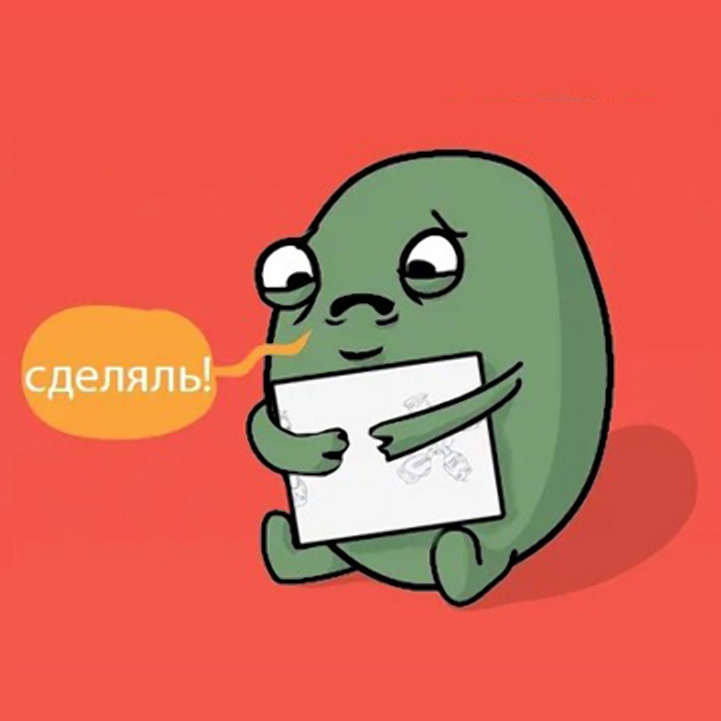
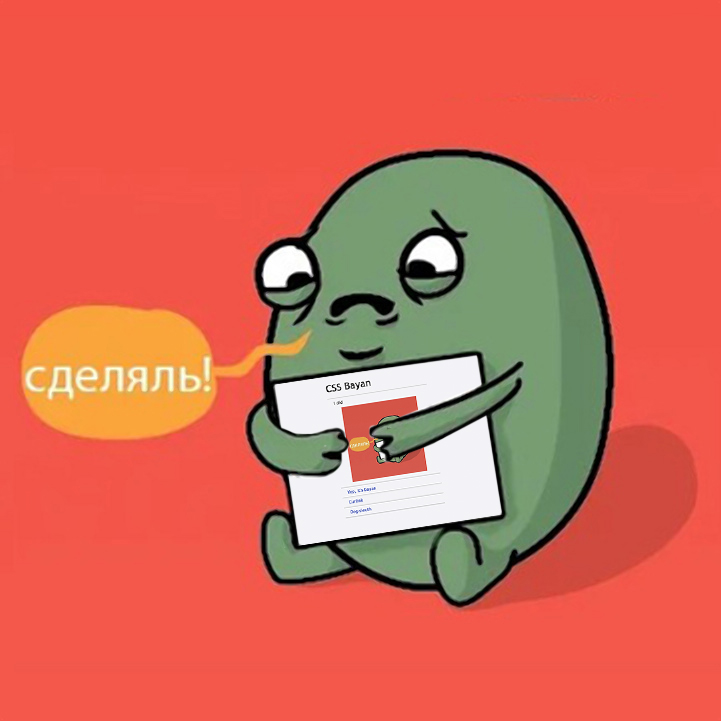
feat: change img (Sat, 11 March, 2023, 23:15:40 AM, MSK)

diff --git a/cssBayan/index.html b/cssBayan/index.html
@@ -19,7 +19,7 @@
                 <label for="i1" class="cssBayan__item">
                     <input type="radio" name="memes"  id="i1" checked >
                         <div class="cssBayan__button">
-                            <div class="cssBayan__text">First</div>
+                            <div class="cssBayan__text">I did</div>
                             <div class="cssBayan__icon"></div>
                         </div>
                         <div class="cssBayan__meme"></div>
@@ -27,7 +27,7 @@
                 <label for="i2" class="cssBayan__item">
                     <input type="radio" name="memes"  id="i2">
                         <div class="cssBayan__button">
-                            <div class="cssBayan__text">Second</div>
+                            <div class="cssBayan__text">Yep, it's bayan</div>
                             <div class="cssBayan__icon"></div>
                         </div>
                         <div class="cssBayan__meme"></div>
@@ -35,7 +35,7 @@
                 <label for="i3" class="cssBayan__item">
                     <input type="radio" name="memes"  id="i3">
                         <div class="cssBayan__button">
-                            <div class="cssBayan__text">Third</div>
+                            <div class="cssBayan__text">Curlink</div>
                             <div class="cssBayan__icon"></div>
                         </div>
                         <div class="cssBayan__meme"></div>
@@ -43,7 +43,7 @@
                 <label for="i4" class="cssBayan__item">
                     <input type="radio" name="memes"  id="i4">
                         <div class="cssBayan__button">
-                            <div class="cssBayan__text">Fourth</div>
+                            <div class="cssBayan__text">Dog-sleuth</div>
                             <div class="cssBayan__icon"></div>
                         </div>
                         <div class="cssBayan__meme"></div>

diff --git a/cssBayan/style.css b/cssBayan/style.css
@@ -1,3 +1,5 @@
+/* https://github.com/Duxcoder */
+
 html {
     font-size: 0.9em;
 }
@@ -114,7 +116,7 @@ body {
 }
 
 .cssBayan__item:nth-child(4) .cssBayan__meme {
-    background-image: url('assets/meme/4.jpg');
+    background-image: url('assets/meme/4.jpeg');
 }
 
 @media (hover: none){
